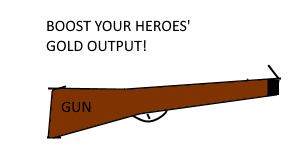
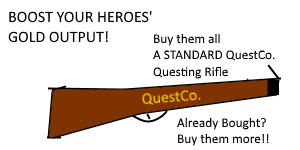
store

diff --git a/questgrinders.html b/questgrinders.html
@@ -285,9 +285,15 @@
 </template>
 
 <template name="help">
+
+  {{>dash}}
   <p align="center">
     Help Pages:
-    <div class="btn-group">
+    </p>
+      <p align="center">
+
+        <div class="helpbutton">
+  <div class="btn-group">
 
     <button type="button" class="btn btn-primary dropdown-toggle" data-toggle="dropdown">
       <span class="caret"></span>
@@ -297,10 +303,14 @@
 
         <li><a href="/infopages"> Info Pages</a></li>
         <li><a href="http://quest-grinders.wikia.com/wiki/"> Wiki </a></li>
+        <li><a href="http://foxfyre.boards.net"> Forums </a></li>
 
       </ul>
+
     </div>
-  </p>
+  </div>
+    </p>
+
 </template>
 
 <template name="contact">
@@ -375,6 +385,20 @@
     <li><input type="image" src="/power.png" class="power btn span2" id="{{user.pcost}}" value="Hire a Hero ({{formatCurrency cost}}) gold" /> Price: g{{formatCurrency user.pcost}}</li>
     <li><input type="image" src="/mult.png" class="mult btn span2" id="{{user.wepcost}}" value="Ultima Weapon" /> Price: g{{formatCurrency user.wepcost}} </li>
     <li><input type="image" src="/hpower.png" class="hpowerup btn span2" id="{{user.hpowercost}}" value="Hero Power" /> Price: g{{formatCurrency user.hpowercost}} </li>
+    </ul>
+  </div>
+
+  <div class="btn-group">
+
+  <button type="button" class="btn btn-primary dropdown-toggle" data-toggle="dropdown">
+    <span class="caret"></span>
+     </button>
+        <ul class="dropdown-menu" role="menu">
+
+
+      <li><a href="/infopages"> WHAT THESE ITEMS DO.</a></li>
+
+
     </ul>
   </div>
 
@@ -520,40 +544,88 @@
 <template name="info">
 
   {{>dash}}
+  <div class="info">
   <p align="center">
-<br>
-    Jack's Shack:
-
-    <div class="btn-group">
-      <button type="button" class="btn btn-primary dropdown-toggle" data-toggle="dropdown">
-        <span class="caret"></span>
-         </button>
-            <ul class="dropdown-menu" role="menu">
-              Way out in extradimensional space.... Jack's Shack contains everything you need to quest!
-            </ul>
-          </div> <br>
+    INFO <br>
+  </p>
 
 
-      Hero:
-          <div class="btn-group">
+
+
+
+
+      Hero <div class="btn-group">
             <button type="button" class="btn btn-primary dropdown-toggle" data-toggle="dropdown">
               <span class="caret"></span>
                </button>
                   <ul class="dropdown-menu" role="menu">
-                  Generates Gold... Will work for gold.... SO HIRE HIM! (BTW... DON'T TELL HIM THAT HE MAKES MORE THAN HE IS BOUGHT FOR...)
+                  Generates Gold... Will work for gold.... SO HIRE HIM! (BTW... DON'T TELL HIM THAT HE CAN MAKE MONEY WITHOUT YOU... Even though it's true..)
                   </ul>
-                </div> <br>
+                </div> <br><br>
+
+                Jack <div class="btn-group">
+                      <button type="button" class="btn btn-primary dropdown-toggle" data-toggle="dropdown">
+                        <span class="caret"></span>
+                         </button>
+                            <ul class="dropdown-menu" role="menu">
+                              A very powerful and mysterious being... You've known him for years... Owns QuestCo.
+                            </ul>
+                          </div>
+                          <br>
+<br>
+
+
+            Jack's Shack  <div class="btn-group">
+                  <button type="button" class="btn btn-primary dropdown-toggle" data-toggle="dropdown">
+                    <span class="caret"></span>
+                     </button>
+                        <ul class="dropdown-menu" role="menu">
+                          Way out in extradimensional space.... Jack's Quest Shack is a branch of QuestCo. that contains everything you need to quest!
+                        </ul>
+                      </div>
+                      <br><br>
+
+
+                      PowerAga  <div class="btn-group">
+                            <button type="button" class="btn btn-primary dropdown-toggle" data-toggle="dropdown">
+                              <span class="caret"></span>
+                               </button>
+                                  <ul class="dropdown-menu" role="menu">
+                                    Makes you feel way stronger (ADDS 5 to click power every purchase)... Made by QuestCo. Don't question it.
+                                  </ul>
+                                </div>
+                                <br><br>
+
+                                Ultima Weapon  <div class="btn-group">
+                                      <button type="button" class="btn btn-primary dropdown-toggle" data-toggle="dropdown">
+                                        <span class="caret"></span>
+                                         </button>
+                                            <ul class="dropdown-menu" role="menu">
+                                            SUPER EXPENSIVE.. (ADDS TO YOUR CLICKING POWER MULTIPLIER)
+                                            </ul>
+                                          </div>
+                                          <br><br>
+
+
+                                          Gun  <div class="btn-group">
+                                                <button type="button" class="btn btn-primary dropdown-toggle" data-toggle="dropdown">
+                                                  <span class="caret"></span>
+                                                   </button>
+                                                      <ul class="dropdown-menu" role="menu">
+                                                      STANDARD QuestCo. questing rifle. Buying this will add 1 to the hero's multiplier.
+                                                      </ul>
+                                                    </div>
+                                                    <br><br>
 
 
 
 
 
-
-
-  </p>
+</div>
 </template>
 
 <template name="needlogin">
+
   {{> dash}}
   <div class="needlogin">
   <p align="center">

diff --git a/questgrinders.css b/questgrinders.css
@@ -103,6 +103,19 @@ background-color: white;
   margin-left: 260px;
 }
 
+.info {
+  background-color: black;
+  float: center;
+  margin-left: 260px;
+}
+
+.helpbutton {
+
+
+  margin-left: 720px;
+}
+
+
 .needlogin {
   background-color: black;
 
